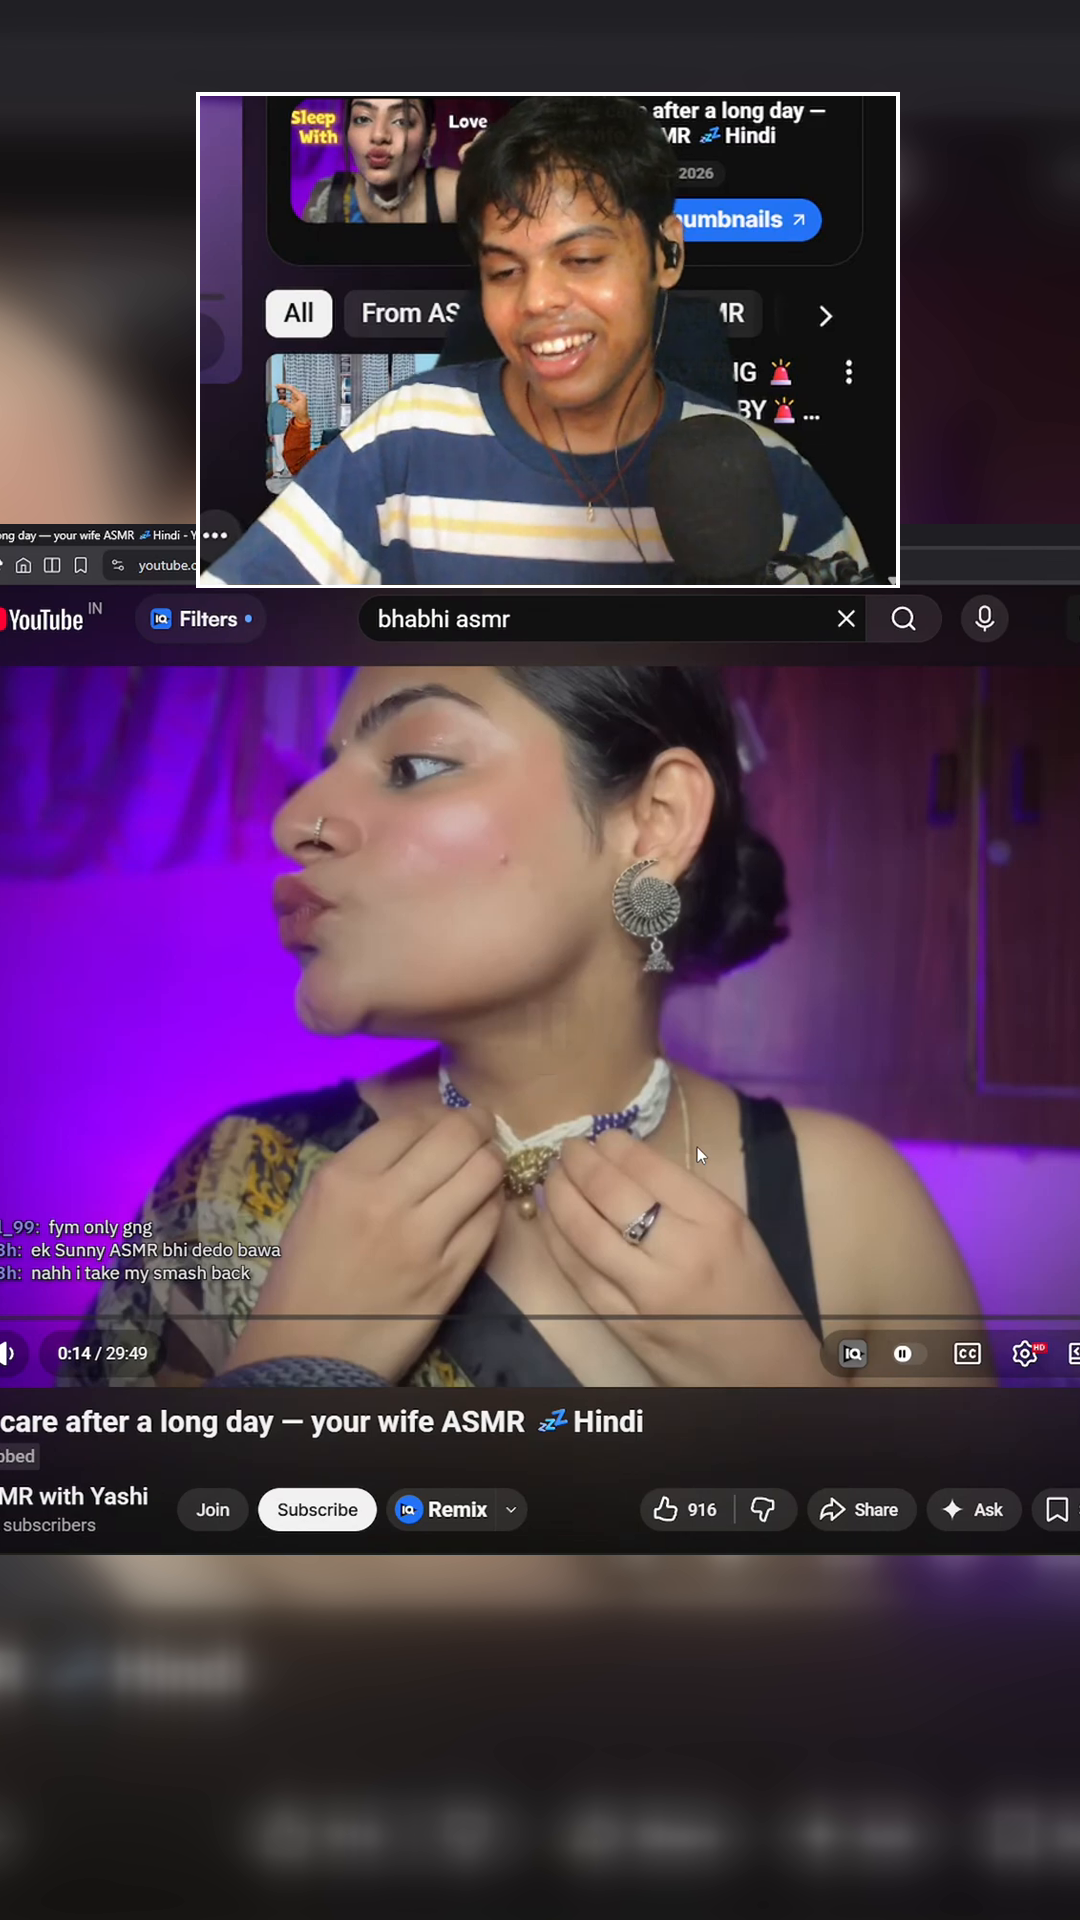
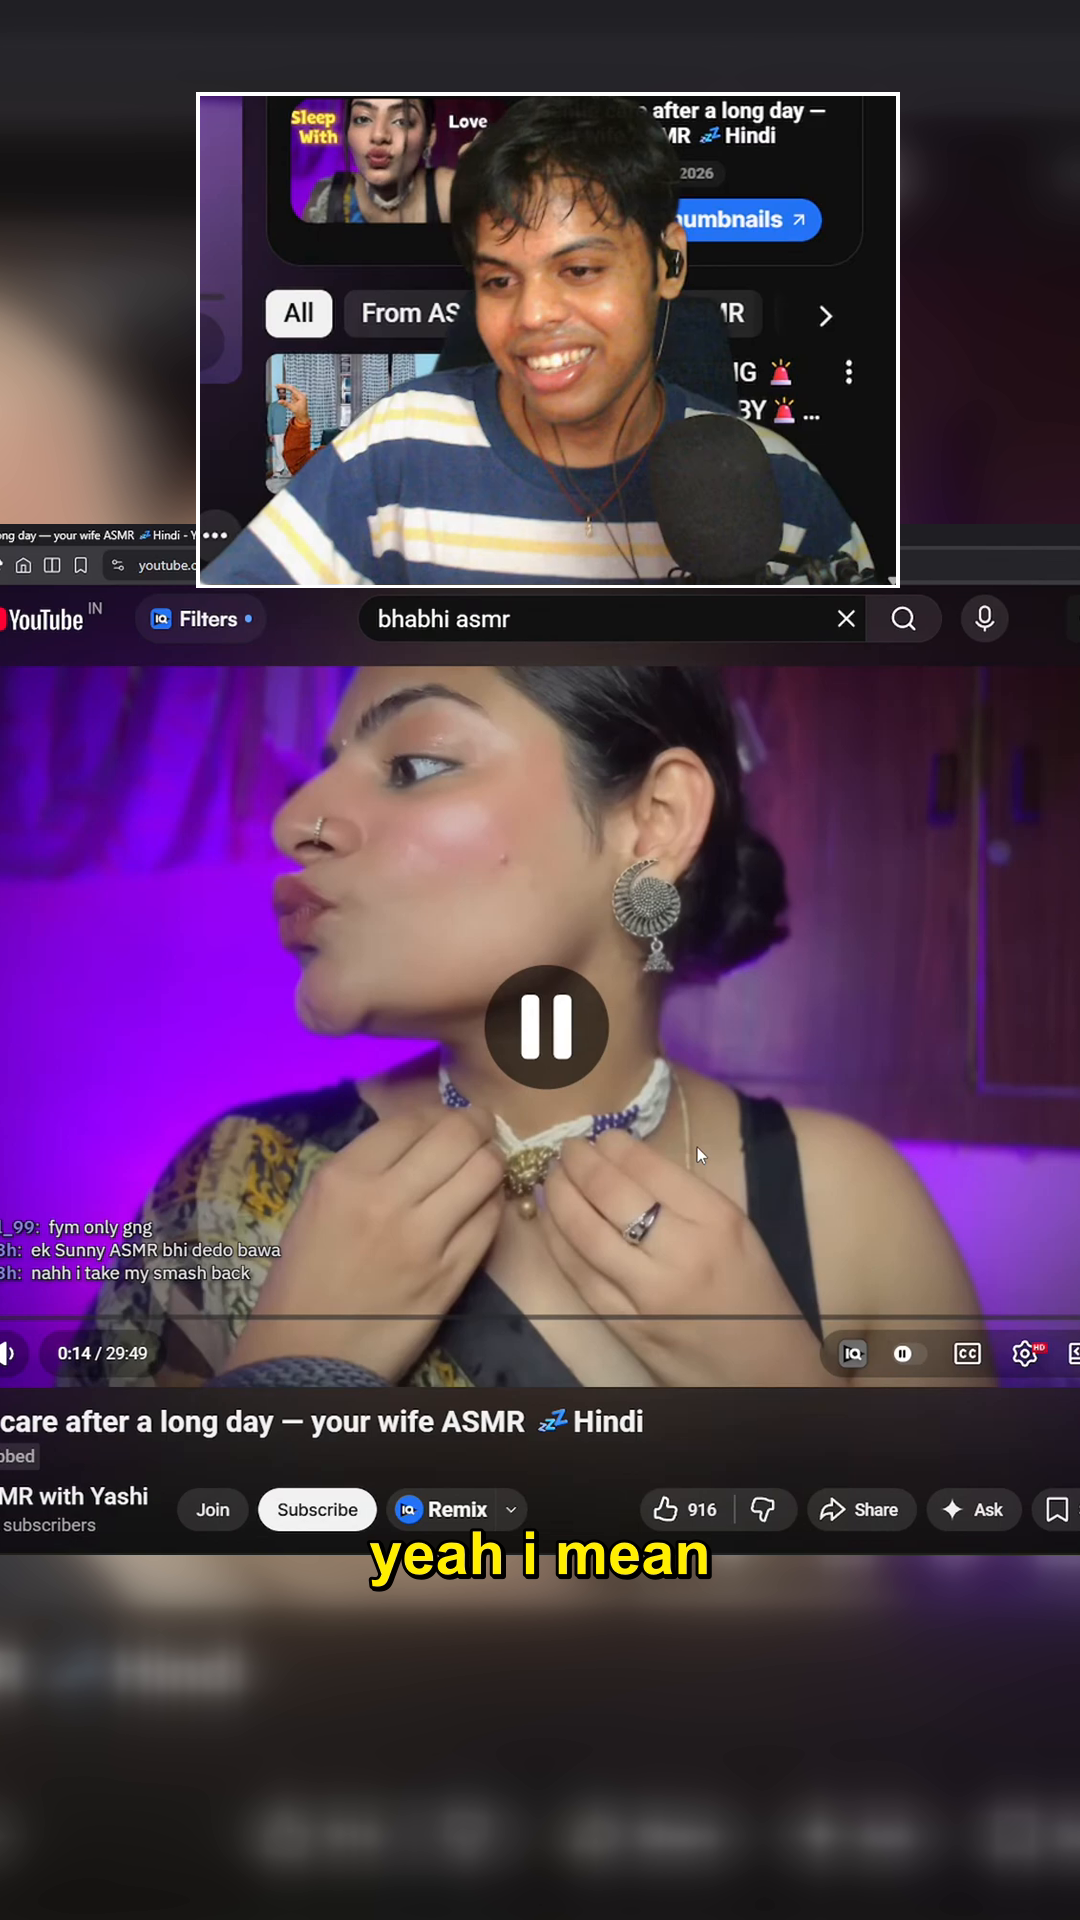
v.2.6

diff --git a/internal/web/web.go b/internal/web/web.go
@@ -1481,3 +1481,103 @@ func getYTFilename(youtubeURL string, cookiesPath string) string {
 		"--get-filename",
 		youtubeURL,
 	)
+	if out, err := cmdNoCookies.Output(); err == nil {
+		return strings.TrimSpace(string(out))
+	}
+	return ""
+}
+
+// handleListLayouts returns a JSON array of layout filenames found in the layouts/ directory.
+func (s *Server) handleListLayouts(w http.ResponseWriter, r *http.Request) {
+	if r.Method != http.MethodGet {
+		http.Error(w, "Method not allowed", http.StatusMethodNotAllowed)
+		return
+	}
+
+	entries, err := os.ReadDir("layouts")
+	w.Header().Set("Content-Type", "application/json")
+	if err != nil {
+		if os.IsNotExist(err) {
+			// No layouts directory yet – return empty list
+			json.NewEncoder(w).Encode([]string{})
+			return
+		}
+		w.WriteHeader(http.StatusInternalServerError)
+		json.NewEncoder(w).Encode(map[string]string{"status": "error", "error": err.Error()})
+		return
+	}
+
+	var names []string
+	for _, e := range entries {
+		if e.IsDir() {
+			continue
+		}
+		if strings.ToLower(filepath.Ext(e.Name())) == ".json" {
+			names = append(names, e.Name())
+		}
+	}
+	if names == nil {
+		names = []string{}
+	}
+	json.NewEncoder(w).Encode(names)
+}
+
+type LoadLayoutRequest struct {
+	Name string `json:"name"`
+}
+
+// handleLoadLayout reads a saved preset from the layouts/ directory, applies it in-memory,
+// and regenerates the preview.
+func (s *Server) handleLoadLayout(w http.ResponseWriter, r *http.Request) {
+	if r.Method != http.MethodPost {
+		http.Error(w, "Method not allowed", http.StatusMethodNotAllowed)
+		return
+	}
+
+	var req LoadLayoutRequest
+	if err := json.NewDecoder(r.Body).Decode(&req); err != nil {
+		http.Error(w, err.Error(), http.StatusBadRequest)
+		return
+	}
+
+	name := strings.TrimSpace(req.Name)
+	if name == "" {
+		http.Error(w, "Name is required", http.StatusBadRequest)
+		return
+	}
+
+	// Sanitize: prevent directory traversal
+	name = filepath.Base(name)
+	if !strings.HasSuffix(strings.ToLower(name), ".json") {
+		name += ".json"
+	}
+
+	layoutPath := filepath.Join("layouts", name)
+	if !fileExists(layoutPath) {
+		w.Header().Set("Content-Type", "application/json")
+		w.WriteHeader(http.StatusNotFound)
+		json.NewEncoder(w).Encode(map[string]string{"status": "error", "error": "layout not found: " + name})
+		return
+	}
+
+	p, err := preset.Load(layoutPath)
+	if err != nil {
+		w.Header().Set("Content-Type", "application/json")
+		w.WriteHeader(http.StatusInternalServerError)
+		json.NewEncoder(w).Encode(map[string]string{"status": "error", "error": "failed to load layout: " + err.Error()})
+		return
+	}
+
+	s.mu.Lock()
+	s.preset = p
+	s.layers = actions.NewLayersFromPreset(p, s.inputWidth, s.inputHeight)
+	s.mu.Unlock()
+
+	// Regenerate preview to reflect the new layout
+	if err := s.generatePreviewFile(); err != nil {
+		log.Printf("Warning: failed to regenerate preview after loading layout: %v\n", err)
+	}
+
+	w.Header().Set("Content-Type", "application/json")
+	json.NewEncoder(w).Encode(map[string]string{"status": "success"})
+}
